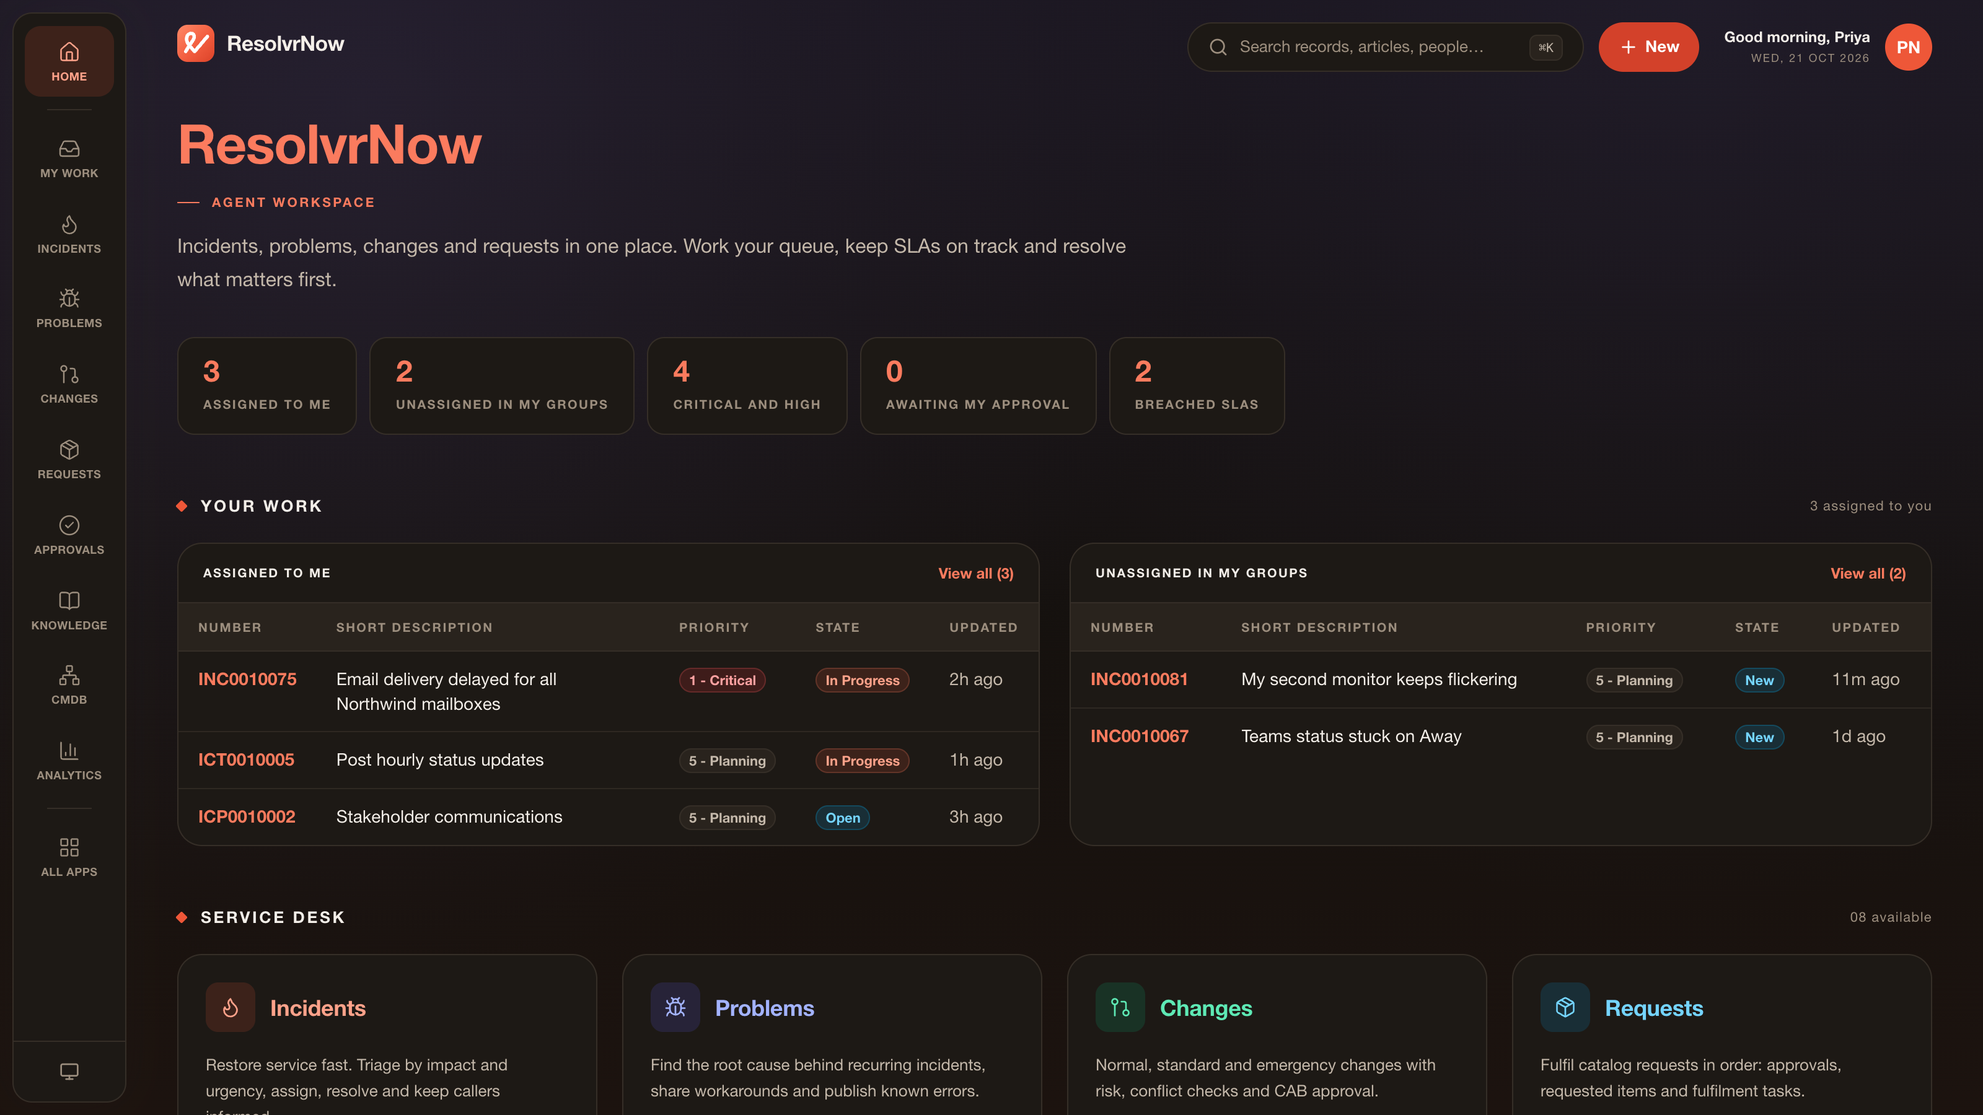
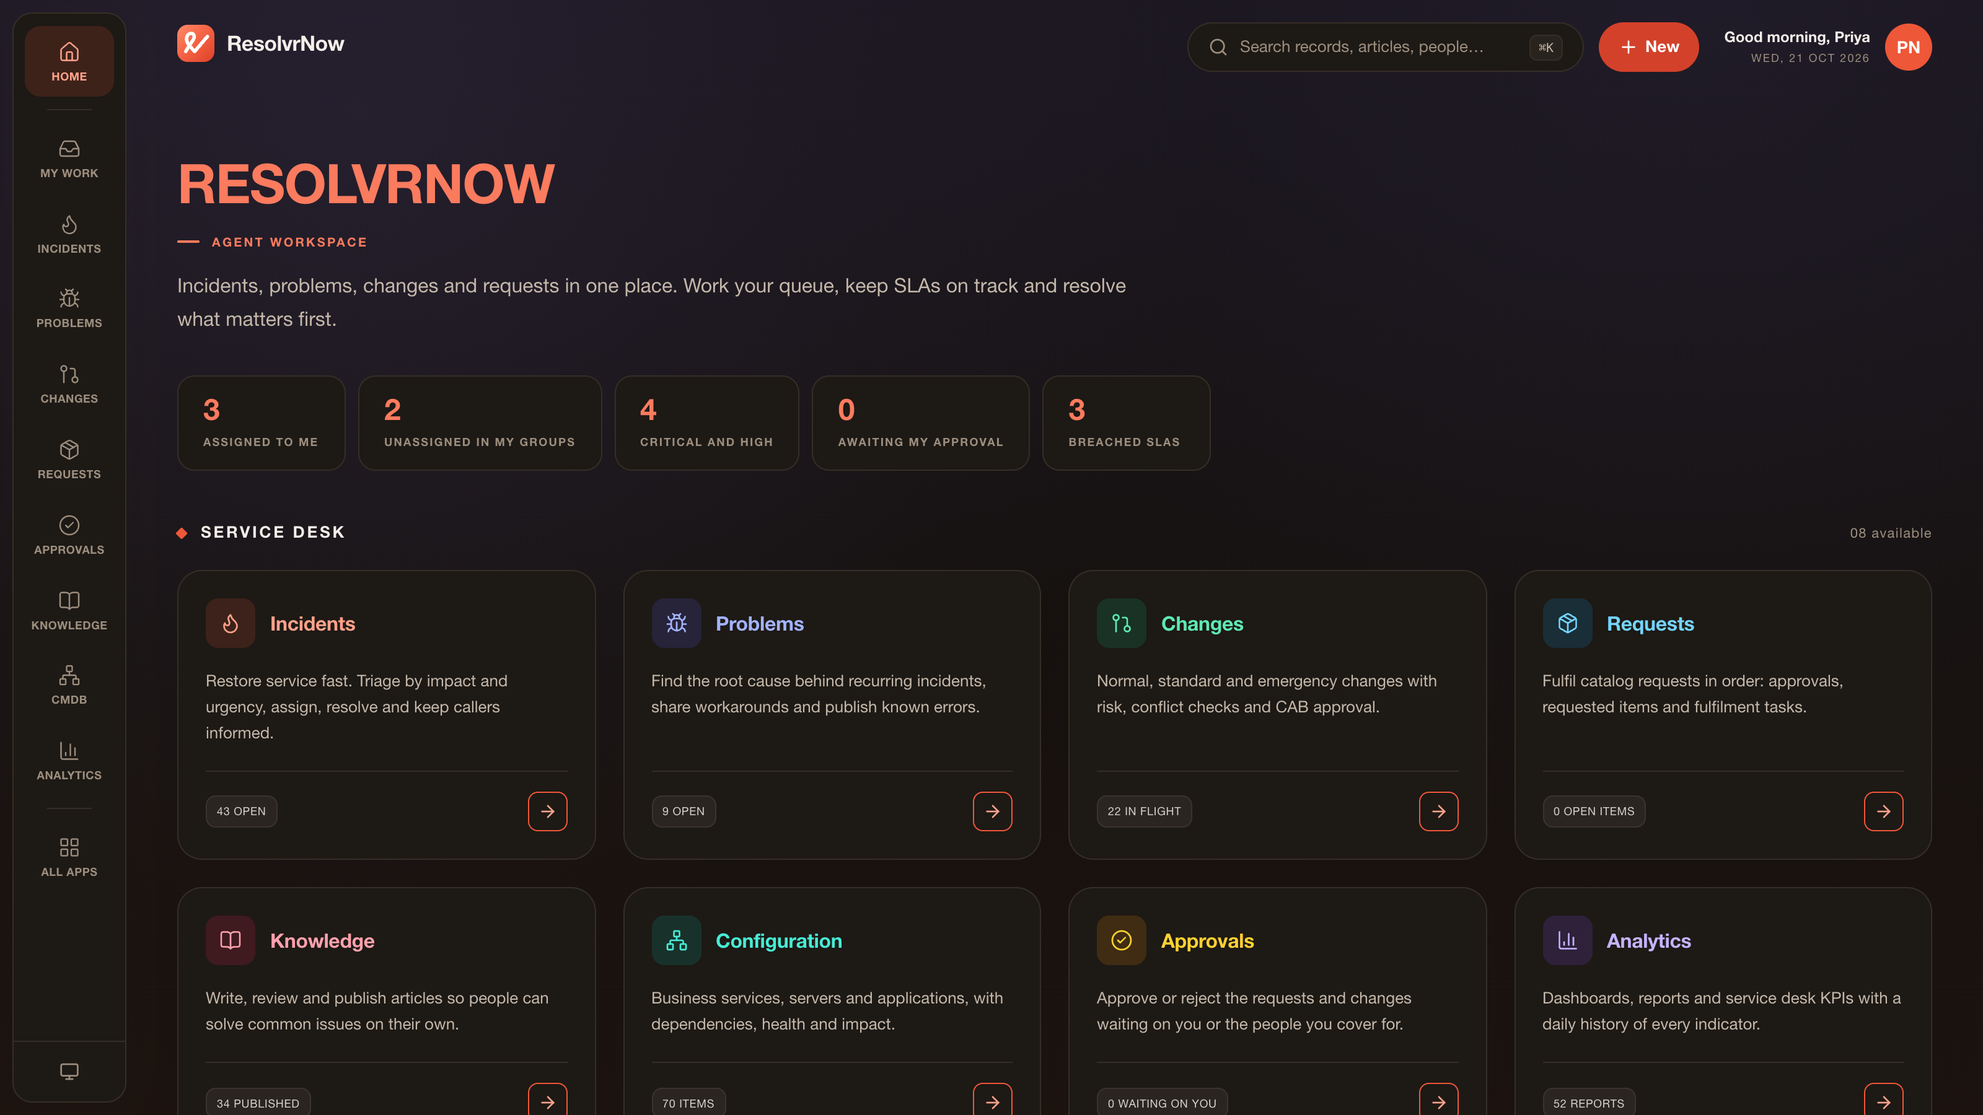
Refine the workspace layout and refresh screenshots
The home page now leads with the application cards and shows the product
name in capitals, with the work queues below. Page content starts lower
under the header. Table headers, chips and filter bars share a neutral grey
fill and line, and filter tabs, stat labels, chips and the record stepper
use smaller, tighter type.

A list now highlights the module whose conditions match it, so a plain or
re-sorted list keeps its tab selected. The sign-in panels use the card
radius and type scale, with an arched frame line, and fit a 732 px tall
window. AI assist no longer draws an empty divider when it only has skills
to offer.

The README image, website screens, social card and brand screenshots are
recaptured from this build.

diff --git a/web/src/app/Login.tsx b/web/src/app/Login.tsx
@@ -17,19 +17,19 @@ const POINTS = ['Incident, problem, change and request management', 'REST API co
 function HeroPanel() {
   return (
     <div
-      className="relative hidden overflow-hidden rounded-[28px] p-12 text-white lg:flex lg:flex-col"
+      className="relative hidden overflow-hidden rounded-card p-11 text-white shadow-[0_2px_6px_rgb(74_56_30/0.06),0_14px_36px_rgb(74_56_30/0.1)] lg:flex lg:flex-col"
       style={{ background: 'linear-gradient(150deg, #ff8a68 0%, #ee5738 36%, #b3361f 70%, #4a1d1a 100%)' }}
     >
       <KnotGlyph className="pointer-events-none absolute -right-28 -bottom-32 size-[760px] text-white/[0.08]" strokeWidth={5} />
-      <div className="pointer-events-none absolute inset-6 rounded-[22px] border border-white/20" aria-hidden />
-      <span className="absolute top-6 left-1/2 size-3 -translate-x-1/2 -translate-y-1/2 rotate-45 bg-gold-300" aria-hidden />
+      <div className="pointer-events-none absolute inset-5 rounded-t-[150px] rounded-b-[18px] border border-white/25" aria-hidden />
+      <span className="absolute top-5 left-1/2 size-3 -translate-x-1/2 -translate-y-1/2 rotate-45 bg-gold-300" aria-hidden />
       <div className="relative mt-auto max-w-[470px]">
         <div className="eyebrow text-white/85">Open-source service management</div>
-        <h2 className="mt-4 text-[44px] leading-[1.05] font-bold tracking-[-0.02em]">From open to resolved, faster.</h2>
-        <p className="mt-4 text-[15px] leading-relaxed text-white/85">
+        <h2 className="mt-4 text-[32px] leading-[1.12] font-bold tracking-[-0.02em]">From open to resolved, faster.</h2>
+        <p className="mt-4 text-sm leading-[1.7] text-white/85">
           Incidents, problems, changes, requests and knowledge on one platform, with a REST API your integrations already speak.
         </p>
-        <ul className="mt-7 space-y-3 text-sm">
+        <ul className="mt-6 space-y-3 text-sm">
           {POINTS.map((p) => (
             <li key={p} className="flex items-center gap-3">
               <span className="inline-flex size-6 shrink-0 items-center justify-center rounded-md border border-white/45">
@@ -39,15 +39,15 @@ function HeroPanel() {
             </li>
           ))}
         </ul>
-        <div className="mt-9 flex gap-12 border-t border-white/20 pt-6">
+        <div className="mt-8 flex gap-12 border-t border-white/20 pt-6">
           {[
             ['20', 'Modules'],
             ['MIT', 'License'],
             ['REST', 'Table API'],
           ].map(([v, l]) => (
             <div key={l}>
-              <div className="text-[34px] leading-none font-bold tracking-[-0.02em]">{v}</div>
-              <div className="micro mt-2 text-white/75">{l}</div>
+              <div className="text-[32px] leading-none font-bold tracking-[-0.02em]">{v}</div>
+              <div className="micro mt-2 text-[9px] text-white/70">{l}</div>
             </div>
           ))}
         </div>
@@ -84,17 +84,17 @@ export function LoginPage() {
 
   return (
     <div className="min-h-screen p-3 sm:p-5">
-      <div className="mx-auto grid min-h-[calc(100vh-40px)] max-w-[1400px] gap-5 lg:grid-cols-[1.05fr_1fr]">
+      <div className="mx-auto grid min-h-[calc(100vh-40px)] max-w-[1400px] gap-[26px] lg:grid-cols-2">
         <HeroPanel />
-        <div className="flex items-center justify-center rounded-[28px] border border-line bg-surface p-6 shadow-card sm:p-10">
+        <div className="flex items-center justify-center rounded-card border border-line bg-surface p-6 shadow-card sm:px-[46px] sm:py-10">
           <form onSubmit={submit} className="w-full max-w-[400px]">
             <Logo size={34} />
-            <div className="mt-12">
+            <div className="mt-9">
               <div className="eyebrow">Sign in</div>
-              <h1 className="mt-3 text-[34px] leading-[1.1] font-bold tracking-[-0.02em] text-brand-500 dark:text-brand-400">Welcome back.</h1>
-              <p className="mt-3 text-[15px] leading-relaxed text-muted">Agents go to the workspace, everyone else to the self-service portal.</p>
+              <h1 className="mt-3 text-[32px] leading-[1.1] font-bold tracking-[-0.02em] text-brand-500 dark:text-brand-400">Welcome back.</h1>
+              <p className="mt-3 text-sm leading-[1.7] text-muted">Agents go to the workspace, everyone else to the self-service portal.</p>
             </div>
-            <div className="mt-8 space-y-4">
+            <div className="mt-7 space-y-4">
               <div>
                 <Label htmlFor="u">User name</Label>
                 <Input id="u" className="h-11" autoComplete="username" autoFocus value={userName} onChange={(e) => setUserName(e.target.value)} />
@@ -109,7 +109,7 @@ export function LoginPage() {
               </Button>
             </div>
             {import.meta.env.VITE_DEMO !== 'false' && (
-              <div className="mt-9">
+              <div className="mt-8">
                 <div className="micro flex items-center justify-between text-subtle">
                   <span>Demo accounts</span>
                   <span className="tracking-[0.06em] normal-case">password demo1234</span>

diff --git a/web/src/components/ui.tsx b/web/src/components/ui.tsx
@@ -161,7 +161,7 @@ export function StatTile({ value, label, to, className }: { value: ReactNode; la
   const body = (
     <>
       <div className="text-2xl leading-none font-bold tracking-[-0.02em] text-brand-500 tabular-nums dark:text-brand-400">{value}</div>
-      <div className="micro mt-2 text-subtle">{label}</div>
+      <div className="micro mt-2 text-[9px] text-subtle">{label}</div>
     </>
   );
   const cls = cx('block min-w-[136px] rounded-tile border border-line bg-surface px-5 pt-3.5 pb-4 transition-colors', className);
@@ -176,7 +176,7 @@ export function StatTile({ value, label, to, className }: { value: ReactNode; la
 
 export function Chip({ children, className }: { children: ReactNode; className?: string }) {
   return (
-    <span className={cx('inline-flex items-center rounded-lg border border-line bg-sunken px-2 py-1 text-[10px] font-medium tracking-[0.04em] text-muted uppercase', className)}>
+    <span className={cx('inline-flex items-center rounded-lg border border-well-line bg-well px-2 py-1.5 text-[9px] leading-tight tracking-[0.04em] text-ink/85 uppercase', className)}>
       {children}
     </span>
   );
@@ -204,11 +204,11 @@ export interface SegmentOption<T extends string> {
 /** Row of filter tabs in a white container; the active one is outlined in coral. */
 export function Segmented<T extends string>({ options, value, onChange, className }: { options: SegmentOption<T>[]; value: T | null; onChange?: (v: T) => void; className?: string }) {
   return (
-    <div className={cx('flex max-w-full items-center gap-1 overflow-x-auto rounded-tile border border-line bg-surface p-1 scrollbar-none', className)} role="tablist">
+    <div className={cx('flex max-w-full items-center gap-1 overflow-x-auto rounded-lg border border-well-line bg-surface p-[5px] scrollbar-none', className)} role="tablist">
       {options.map((o) => {
         const active = o.id === value;
         const cls = cx(
-          'micro shrink-0 rounded-[9px] border px-3.5 py-2 whitespace-nowrap transition-colors',
+          'shrink-0 rounded-lg border px-4 py-2 text-[11px] font-bold tracking-[0.05em] whitespace-nowrap uppercase transition-colors',
           active ? 'border-brand-500 text-brand-600 dark:text-brand-300' : 'border-transparent text-ink/80 hover:bg-sunken hover:text-ink',
         );
         return o.to ? (
@@ -233,18 +233,18 @@ export function Stepper({ steps, current }: { steps: { id: string; label: string
         const state = i < current ? 'done' : i === current ? 'current' : 'next';
         return (
           <li key={s.id} className="flex items-center gap-2.5">
-            {i > 0 && <span className="h-px w-5 bg-line-strong" aria-hidden />}
+            {i > 0 && <span className="h-px w-[18px] bg-well-line" aria-hidden />}
             <span
               className={cx(
-                'inline-flex size-6 items-center justify-center rounded-[7px] text-[11px] font-bold',
-                state === 'current' && 'bg-brand-500 text-white shadow-card',
+                'inline-flex size-7 items-center justify-center rounded-lg text-[10px] font-bold',
+                state === 'current' && 'bg-brand-500 text-white',
                 state === 'done' && 'bg-brand-100 text-brand-600 dark:bg-brand-500/20 dark:text-brand-300',
-                state === 'next' && 'border border-line-strong bg-surface text-subtle',
+                state === 'next' && 'border border-well-line bg-raised text-subtle',
               )}
             >
               {state === 'done' ? <Check className="size-3.5" strokeWidth={3} /> : i + 1}
             </span>
-            <span className={cx('micro', state === 'current' ? 'text-ink' : 'text-subtle')} aria-current={state === 'current' ? 'step' : undefined}>
+            <span className={cx('text-[10px] font-bold tracking-[0.07em] uppercase', state === 'current' ? 'text-ink' : 'text-subtle')} aria-current={state === 'current' ? 'step' : undefined}>
               {s.label}
             </span>
           </li>

diff --git a/web/src/app/workspace/Home.tsx b/web/src/app/workspace/Home.tsx
@@ -100,7 +100,7 @@ function AppCard({ def }: { def: AppCardDef }) {
     <div className="group relative flex flex-col rounded-card border border-line bg-surface p-[22px] shadow-card transition-shadow hover:shadow-pop">
       <div className="flex items-center gap-3">
         <IconTile tint={def.tint} icon={<Icon name={def.icon} className="size-[18px]" strokeWidth={1.8} />} />
-        <h3 className={`text-lg font-bold tracking-[-0.01em] ${TINTS[def.tint].text}`}>
+        <h3 className={`text-base font-bold tracking-[-0.01em] ${TINTS[def.tint].text}`}>
           <Link to={to} className="after:absolute after:inset-0">
             {def.title}
           </Link>
@@ -127,9 +127,9 @@ export function WorkspaceHome() {
   const cards = APP_CARDS.filter((c) => installed.has(c.app));
   const mine = useCount('task', MINE);
   return (
-    <div className="space-y-12">
+    <div className="space-y-10">
       <div>
-        <PageHero title="ResolvrNow" eyebrow="Agent workspace">
+        <PageHero title={<span className="uppercase">ResolvrNow</span>} eyebrow="Agent workspace">
           Incidents, problems, changes and requests in one place. Work your queue, keep SLAs on track and resolve what matters first.
         </PageHero>
         <div className="mt-8 flex flex-wrap gap-2.5">
@@ -141,6 +141,17 @@ export function WorkspaceHome() {
         </div>
       </div>
 
+      {cards.length > 0 && (
+        <section>
+          <SectionHeader title="Service desk" aside={`${String(cards.length).padStart(2, '0')} available`} />
+          <div className="mt-5 grid gap-[22px] sm:grid-cols-2 xl:grid-cols-4">
+            {cards.map((c) => (
+              <AppCard key={c.app} def={c} />
+            ))}
+          </div>
+        </section>
+      )}
+
       <section>
         <SectionHeader title="Your work" aside={mine.data !== undefined ? `${mine.data} assigned to you` : undefined} />
         <div className="mt-5 grid gap-6 xl:grid-cols-2">
@@ -148,17 +159,6 @@ export function WorkspaceHome() {
           <Queue title="Unassigned in my groups" query={GROUP_UNASSIGNED} />
         </div>
       </section>
-
-      {cards.length > 0 && (
-        <section>
-          <SectionHeader title="Service desk" aside={`${String(cards.length).padStart(2, '0')} available`} />
-          <div className="mt-5 grid gap-5 sm:grid-cols-2 xl:grid-cols-4">
-            {cards.map((c) => (
-              <AppCard key={c.app} def={c} />
-            ))}
-          </div>
-        </section>
-      )}
     </div>
   );
 }

diff --git a/web/src/app/workspace/ListPage.tsx b/web/src/app/workspace/ListPage.tsx
@@ -37,6 +37,9 @@ function toCsv(columns: string[], labels: string[], rows: Record<string, FieldVa
   return [labels.map(esc).join(','), ...rows.map((r) => columns.map((c) => esc(fv(r[c]).display_value || fv(r[c]).value)).join(','))].join('\n');
 }
 
+/** An encoded query without its ORDERBY clauses (they always come last). */
+const withoutOrder = (q: string) => q.replace(/\^?ORDERBY.*$/, '');
+
 /** List modules from the navigation that show the same table, used as quick filters. */
 function useSiblingModules(table: string): NavModule[] {
   const nav = useQuery({
@@ -84,7 +87,7 @@ export function ListPage() {
     setParams(next);
   };
 
-  const fullQuery = search.trim() ? [query.replace(/\^?ORDERBY.*$/, ''), `123TEXTQUERY321=${search.trim()}`, ...parsed.orderBy.map((o) => `${o.desc ? 'ORDERBYDESC' : 'ORDERBY'}${o.field}`)].filter(Boolean).join('^') : query;
+  const fullQuery = search.trim() ? [withoutOrder(query), `123TEXTQUERY321=${search.trim()}`, ...parsed.orderBy.map((o) => `${o.desc ? 'ORDERBYDESC' : 'ORDERBY'}${o.field}`)].filter(Boolean).join('^') : query;
   const data = useQuery({
     queryKey: ['list', table, fullQuery, page, pageSize, columns.join(',')],
     enabled: !!meta.data,
@@ -98,7 +101,10 @@ export function ListPage() {
   const total = data.data?.total ?? 0;
   const rows = (data.data?.rows ?? []).map((r) => ({ sys_id: fv(r.sys_id).value, table: fv(r.sys_class_name).value || table, values: r }));
 
-  const current = siblings.find((s) => s.title === title && (s.query ?? '') === query);
+  // A module link carries its title; without one (a plain or re-sorted list) match on the conditions alone.
+  const current = title
+    ? siblings.find((s) => s.title === title && (s.query ?? '') === query)
+    : siblings.find((s) => withoutOrder(s.query ?? '') === withoutOrder(query));
   const filters = [
     ...(title && !current ? [{ id: '__current', label: title }] : []),
     ...siblings.map((s) => ({ id: s.title, label: s.title, to: moduleHref(s) })),

diff --git a/web/src/components/AiAssist.tsx b/web/src/components/AiAssist.tsx
@@ -3,7 +3,7 @@ import { Copy, Sparkles } from 'lucide-react';
 import { useState } from 'react';
 import { Link } from 'react-router';
 import { api, type ApiError, type FieldValue } from '../lib/api';
-import { Button, Card, Modal, useToast } from './ui';
+import { Button, Card, cx, Modal, useToast } from './ui';
 
 /** Predictions, similar records, suggested articles and generative skills for a record (the ai module). */
 
@@ -68,7 +68,8 @@ export function AiAssist({ table, sysId, values, onApply }: { table: string; sys
   // Only suggestions the model is confident about (above its solution's threshold) are offered.
   const predictions = r.predictions.filter((p) => p.above_threshold !== false && p.value && p.value !== (values[p.field]?.value ?? p.current_value));
   const available = (skills.data ?? []).filter((s) => s.allowed && s.needs_record && SKILLS.includes(s.id) && (s.table === table || s.table === 'task'));
-  if (!predictions.length && !r.similar_records.length && !r.knowledge.length && !available.length) return null;
+  const insights = predictions.length > 0 || r.similar_records.length > 0 || r.knowledge.length > 0;
+  if (!insights && !available.length) return null;
 
   return (
     <Card
@@ -119,7 +120,7 @@ export function AiAssist({ table, sysId, values, onApply }: { table: string; sys
           </div>
         )}
         {available.length > 0 && (
-          <div className="flex flex-wrap gap-2 border-t border-line pt-4">
+          <div className={cx('flex flex-wrap gap-2', insights && 'border-t border-line pt-4')}>
             {available.map((s) => (
               <Button key={s.id} size="sm" loading={run.isPending && run.variables === s.id} onClick={() => run.mutate(s.id)}>
                 {s.id === 'incident_summarization' ? 'Summarize' : s.id === 'resolution_notes_generation' ? 'Draft resolution notes' : 'Draft email'}

diff --git a/site/index.html b/site/index.html
@@ -324,13 +324,13 @@
           <circle cx="500" cy="500" r="390" stroke="url(#ring-b)" stroke-width="1.6" />
           <circle cx="500" cy="500" r="470" stroke="url(#ring-c)" stroke-width="1.6" />
         </svg>
-        <figure class="float f1"><img src="assets/screens/tile-appcard.webp" width="608" height="470" alt="" /></figure>
-        <figure class="float f2"><img src="assets/screens/tile-queue.webp" width="1250" height="530" alt="" /></figure>
-        <figure class="float f3"><img src="assets/screens/tile-login.webp" width="900" height="1095" alt="" /></figure>
-        <figure class="float f4"><img src="assets/screens/tile-stat.webp" width="292" height="160" alt="" /></figure>
+        <figure class="float f1"><img src="assets/screens/tile-appcard.webp" width="604" height="472" alt="" /></figure>
+        <figure class="float f2"><img src="assets/screens/tile-queue.webp" width="1250" height="528" alt="" /></figure>
+        <figure class="float f3"><img src="assets/screens/tile-login.webp" width="900" height="1127" alt="" /></figure>
+        <figure class="float f4"><img src="assets/screens/tile-stat.webp" width="272" height="158" alt="" /></figure>
         <figure class="float f5"><img src="assets/screens/tile-activity.webp" width="840" height="1500" alt="" /></figure>
         <figure class="float f6"><img src="assets/screens/feat-sla.webp" width="1600" height="1000" alt="" /></figure>
-        <figure class="float f7"><img src="assets/screens/tile-stepper.webp" width="2464" height="50" alt="" /></figure>
+        <figure class="float f7"><img src="assets/screens/tile-stepper.webp" width="2464" height="58" alt="" /></figure>
         <figure class="float f8"><img src="assets/screens/feat-change.webp" width="1600" height="1000" alt="" /></figure>
       </div>
       <div class="hero-inner">

diff --git a/web/src/styles.css b/web/src/styles.css
@@ -60,6 +60,8 @@
   --color-muted: var(--app-muted);
   --color-subtle: var(--app-subtle);
   --color-accent: var(--app-accent);
+  --color-well: var(--app-well);
+  --color-well-line: var(--app-well-line);
 }
 
 :root {
@@ -73,6 +75,9 @@
   --app-muted: #5c5248;
   --app-subtle: #7a6c5b;
   --app-accent: var(--color-brand-600);
+  /* Neutral fill and line for table headers, chips and filter bars */
+  --app-well: #eaeaea;
+  --app-well-line: #d8d8d8;
   /* Charts: categorical slots validated for CVD on the card surface (dataviz validator) */
   --viz-1: #2a78d6;
   --viz-2: #eb6834;
@@ -102,6 +107,8 @@
   --app-muted: #c4b8aa;
   --app-subtle: #9c8e7e;
   --app-accent: var(--color-brand-400);
+  --app-well: #2a2521;
+  --app-well-line: #3b342d;
   --viz-1: #3987e5;
   --viz-2: #d95926;
   --viz-3: #199e70;
@@ -177,7 +184,7 @@ body {
     display: inline-flex;
     align-items: center;
     gap: 0.625rem;
-    font-size: 10.5px;
+    font-size: 10px;
     font-weight: 700;
     letter-spacing: 0.16em;
     text-transform: uppercase;

diff --git a/web/src/components/DataTable.tsx b/web/src/components/DataTable.tsx
@@ -52,7 +52,7 @@ export function DataTable({
     <div className="overflow-x-auto scrollbar-thin">
       <table className="w-full border-collapse text-sm">
         <thead>
-          <tr className="border-b border-line bg-sunken text-left">
+          <tr className="border-b border-well-line bg-well text-left">
             {selectable && (
               <th className="w-10 px-4 py-3">
                 <input
@@ -68,7 +68,7 @@ export function DataTable({
               const label = meta[c.split('.')[0]]?.label ?? c;
               const active = sort?.field === c;
               return (
-                <th key={c} className="micro px-4 py-3 whitespace-nowrap text-subtle">
+                <th key={c} className="micro px-4 py-3 text-[9px] whitespace-nowrap text-muted">
                   <button
                     type="button"
                     className={cx('inline-flex items-center gap-1 tracking-[inherit] uppercase hover:text-ink', active && 'text-ink')}

diff --git a/web/src/app/workspace/Shell.tsx b/web/src/app/workspace/Shell.tsx
@@ -322,7 +322,7 @@ export function WorkspaceShell() {
               </div>
             </details>
           </header>
-          <main className="min-w-0 flex-1 pt-4 pb-10">
+          <main className="min-w-0 flex-1 pt-12 pb-10">
             <Outlet />
           </main>
           <footer className="flex flex-wrap items-center justify-between gap-3 border-t border-line py-5 text-[13px] text-muted">
